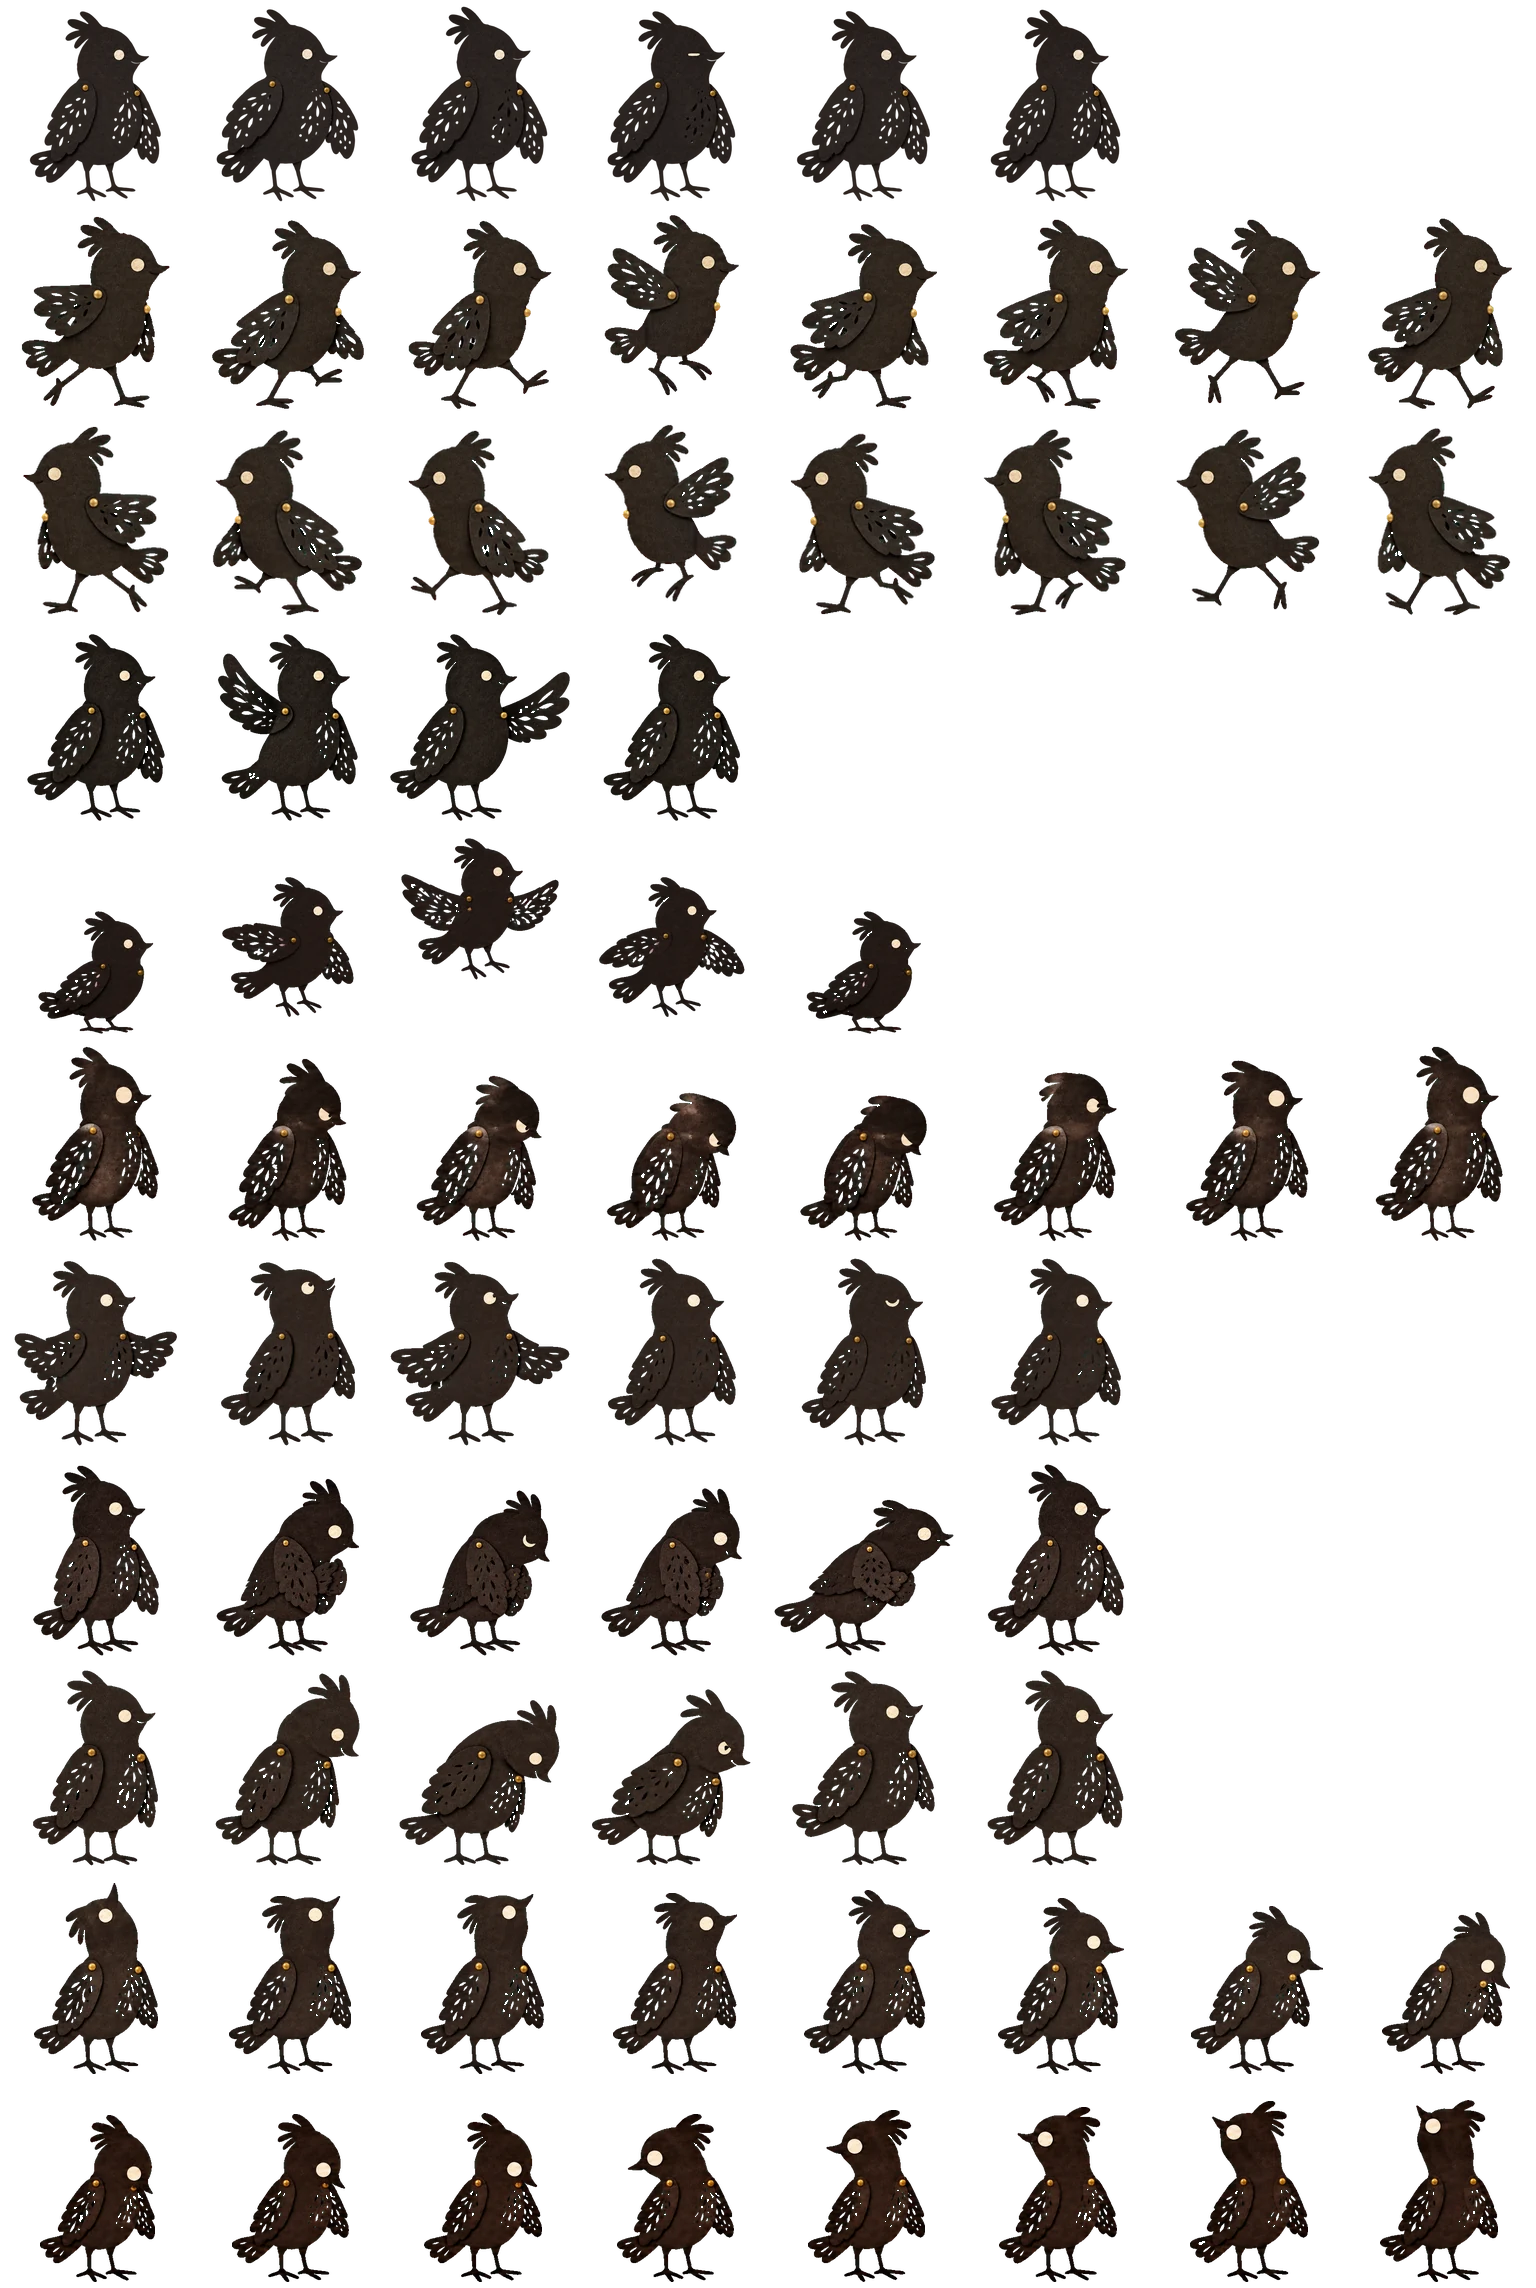
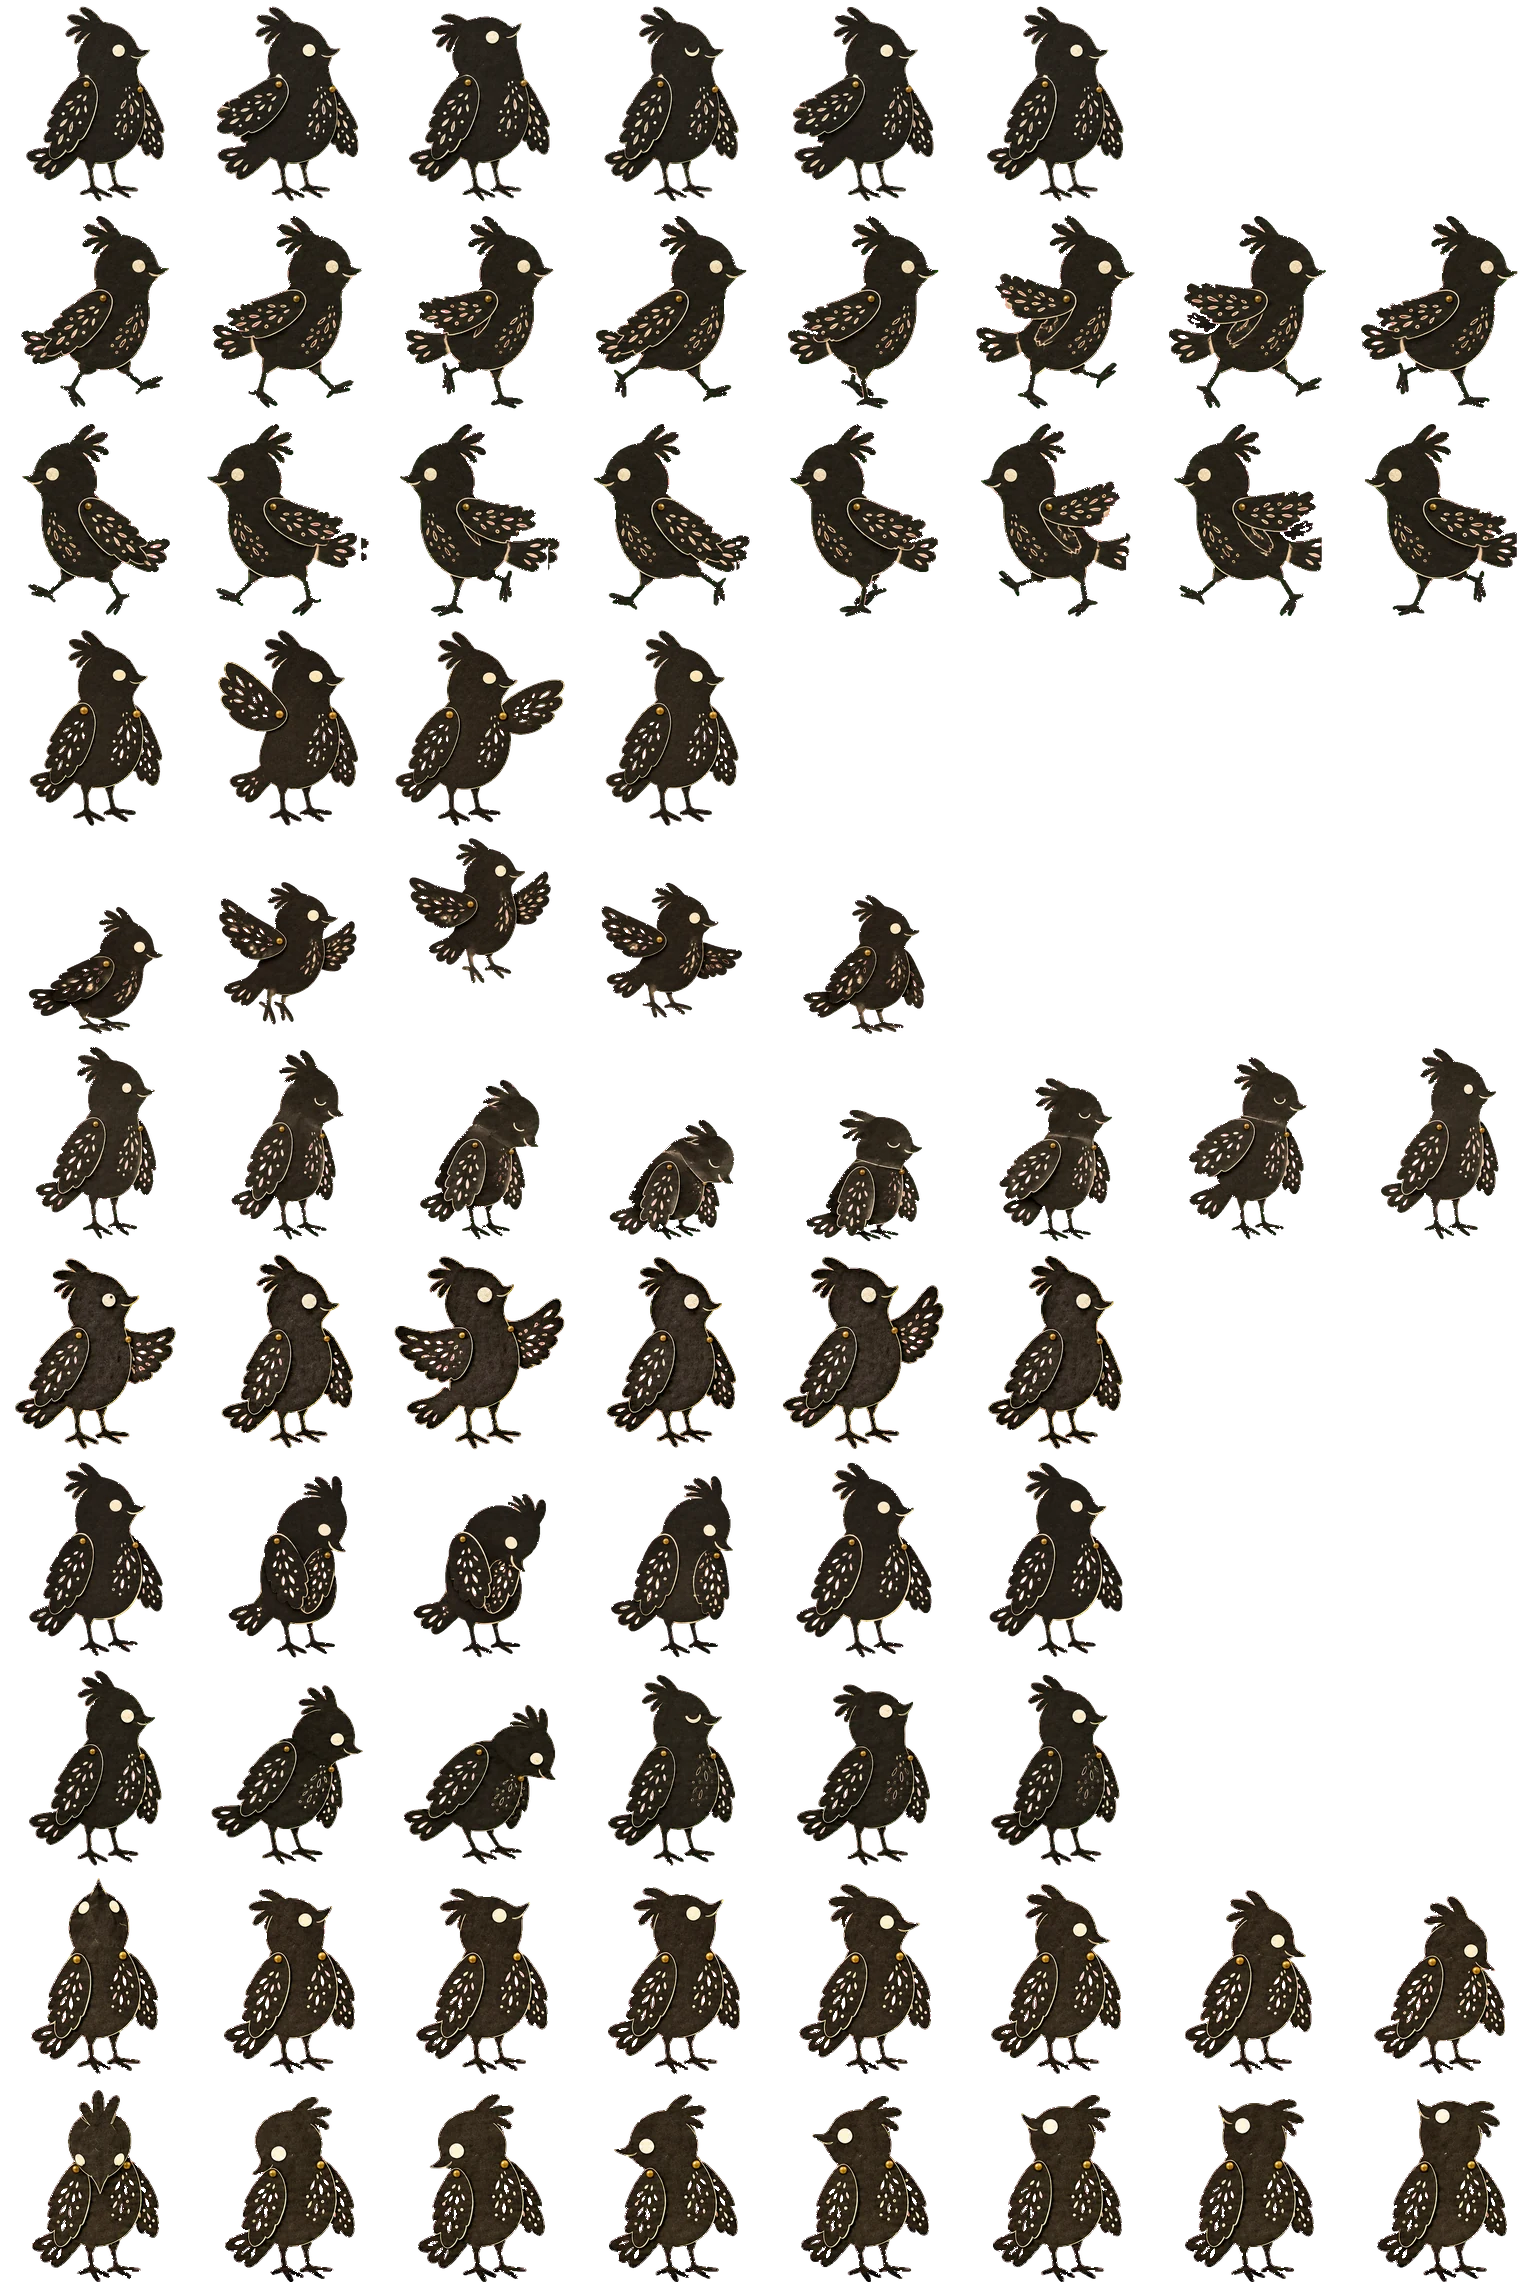
Pets: Scherenschnitt redrawn [skip ci]
Scherenschnitt was redrawn with a thin cream edge on every cut, so she reads on the dark page (Paul's pick, b). Paul signed off the sheet ("sign off"). Lossy WebP q88, 658,824 bytes, alpha bit-identical (mean error 3.2/255); the 25 sheets total 19,256,368 bytes. pet-metrics.json and the making-of golden regenerated.

diff --git a/docs/marginarium-pets.md b/docs/marginarium-pets.md
@@ -180,14 +180,15 @@ waving cells at native size and 5x, on white and dark, showed no banding, halo o
[4 lines of base64/hex data omitted]
 
 The Glassblower's redraw (Paul: "Both good") replaced the factory's droplet the same day: a
 clearer drop with a curling tip and a warm light inside. Niko followed, painted the way Pirosmani painted animals: house paint on black oilcloth, the black
 left showing as his patches, a crescent and stars on his shoulder (Paul: "Grounding them in the actual
 techniques their namesake used is the right method here"). The Moon hatched too: her first drawing was withheld because, a crescent seen side-on, she
 couldn't turn to face left; her second, a hand-coloured almanac woodcut (Paul: "The moon one is in
-need of a new drawing"), mirrors her right-facing looks for the left. The Snow Queen followed as Andersen's own paper-cuts: white paper cut from a folded sheet, a snowflake-cut crown, no pins or lace. Medea followed as archaic Greek black-figure painting on a potsherd; the shard never moves, only the ram (Paul's rule). The twenty-five sheets total
-**19,085,966 bytes (18.20 MiB)** of the 24 MiB budget. Dino's, the Glassblower's and Niko's
+need of a new drawing"), mirrors her right-facing looks for the left. The Snow Queen followed as Andersen's own paper-cuts: white paper cut from a folded sheet, a snowflake-cut crown, no pins or lace. Medea followed as archaic Greek black-figure painting on a potsherd; the shard never moves, only the ram (Paul's rule). Scherenschnitt was redrawn with a thin cream edge on every cut, so she reads on the dark page (Paul's pick, b). The twenty-five sheets total
+**19,256,368 bytes (18.36 MiB)** of the 24 MiB budget. Dino's, the Glassblower's and Niko's
 first sheets, in the table above, no longer ship. The new ones fill more of their cells than the
 factory's nineteen (top 6 and foot 201 in `pet-metrics.json`, as the Baba Yaga's already did),
 so they stand a little larger beside them.
